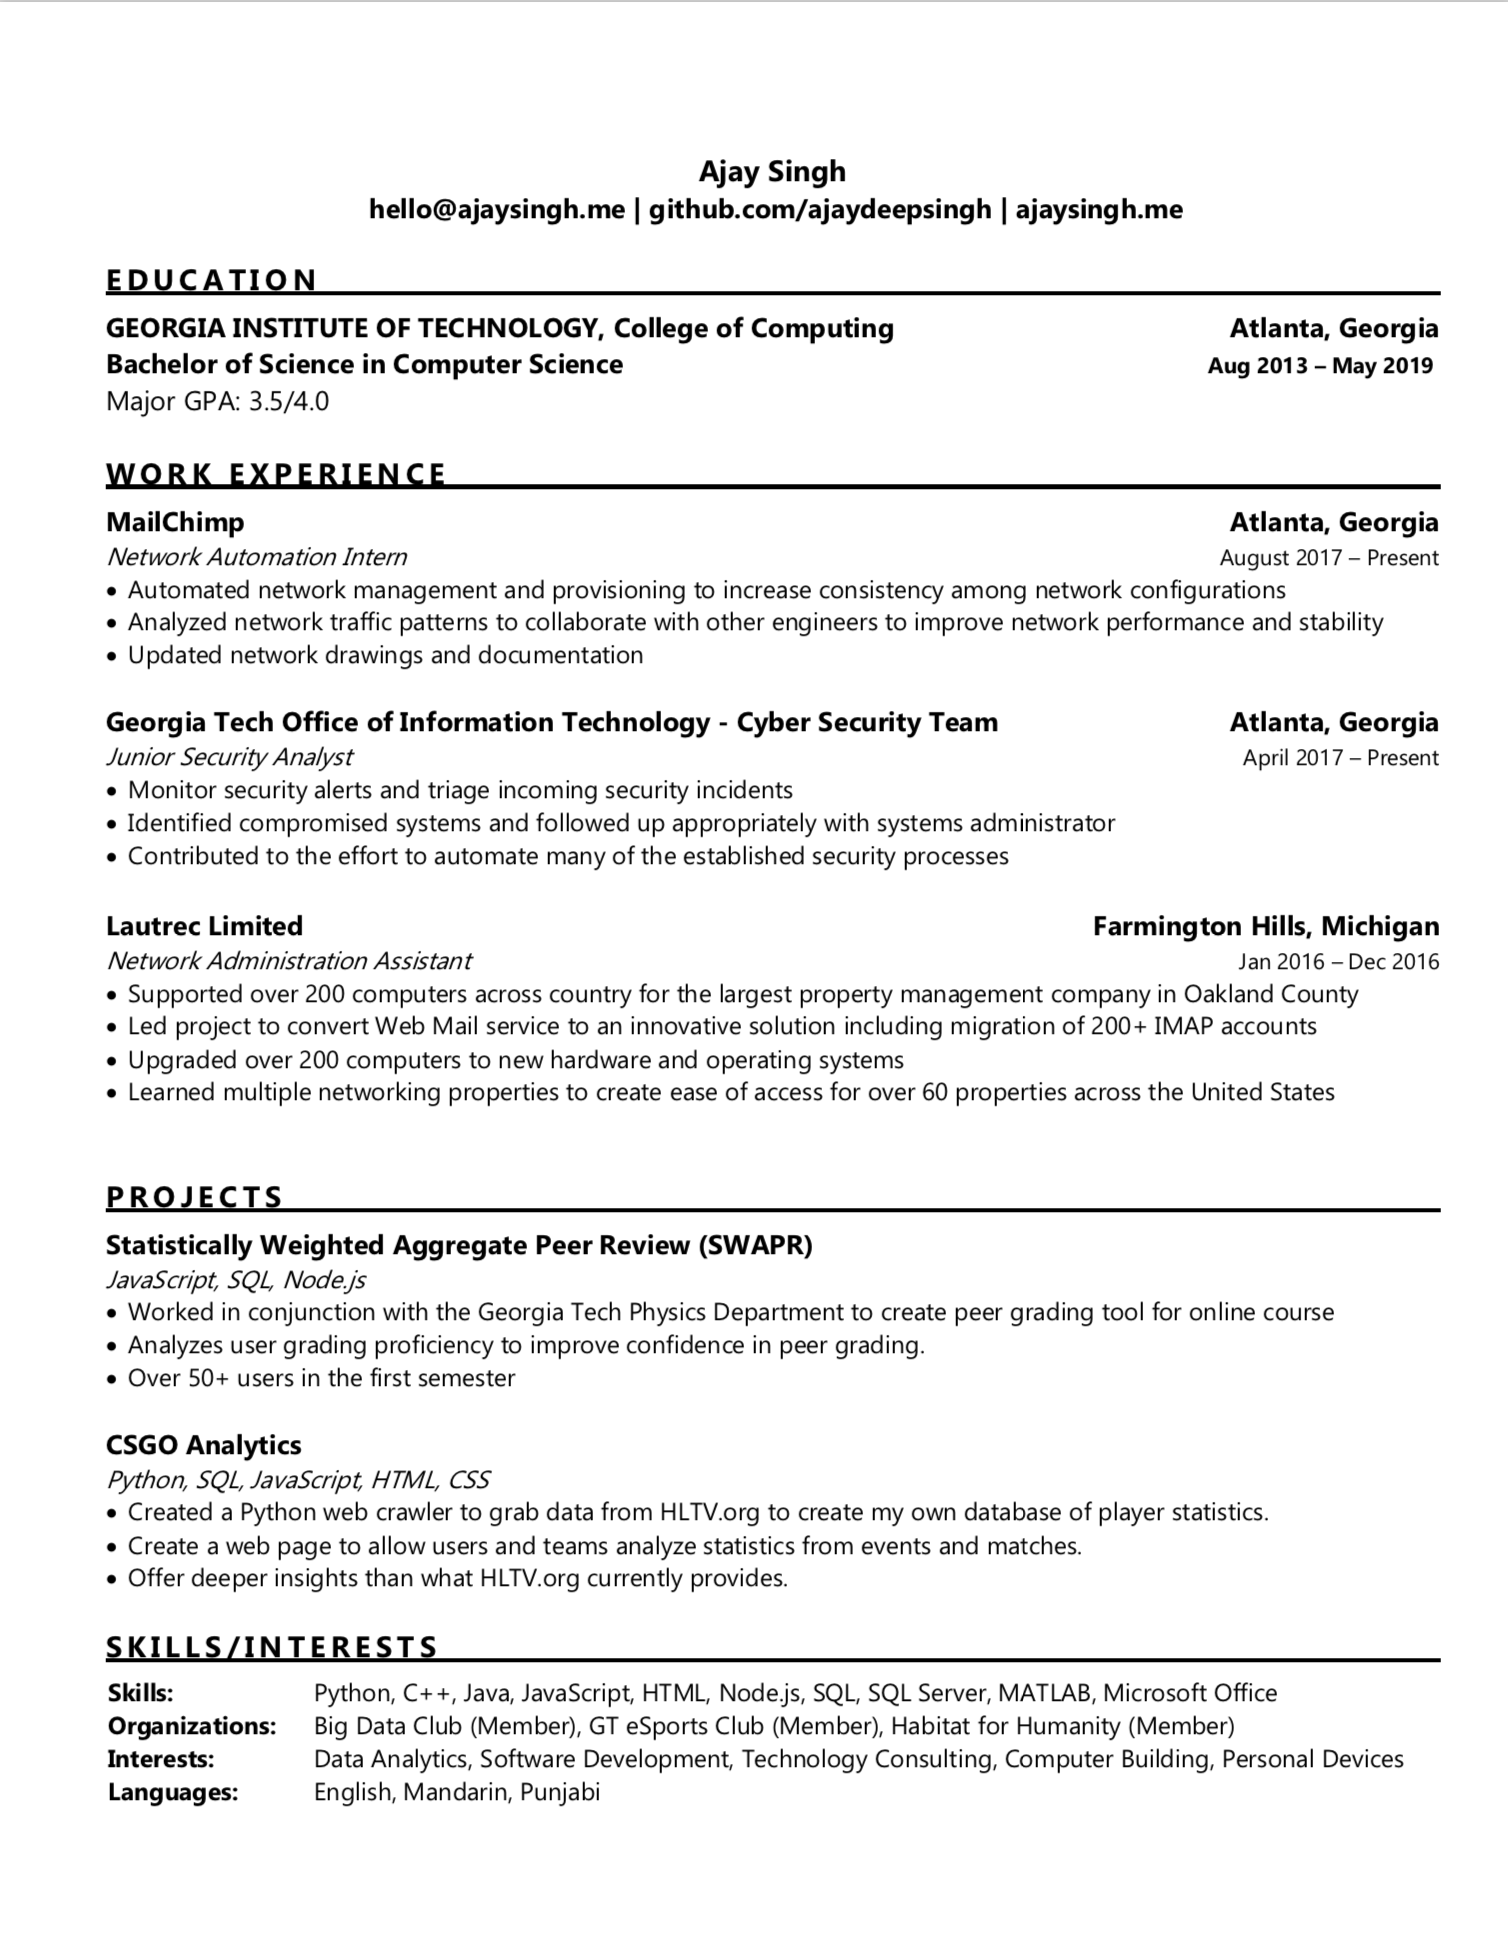
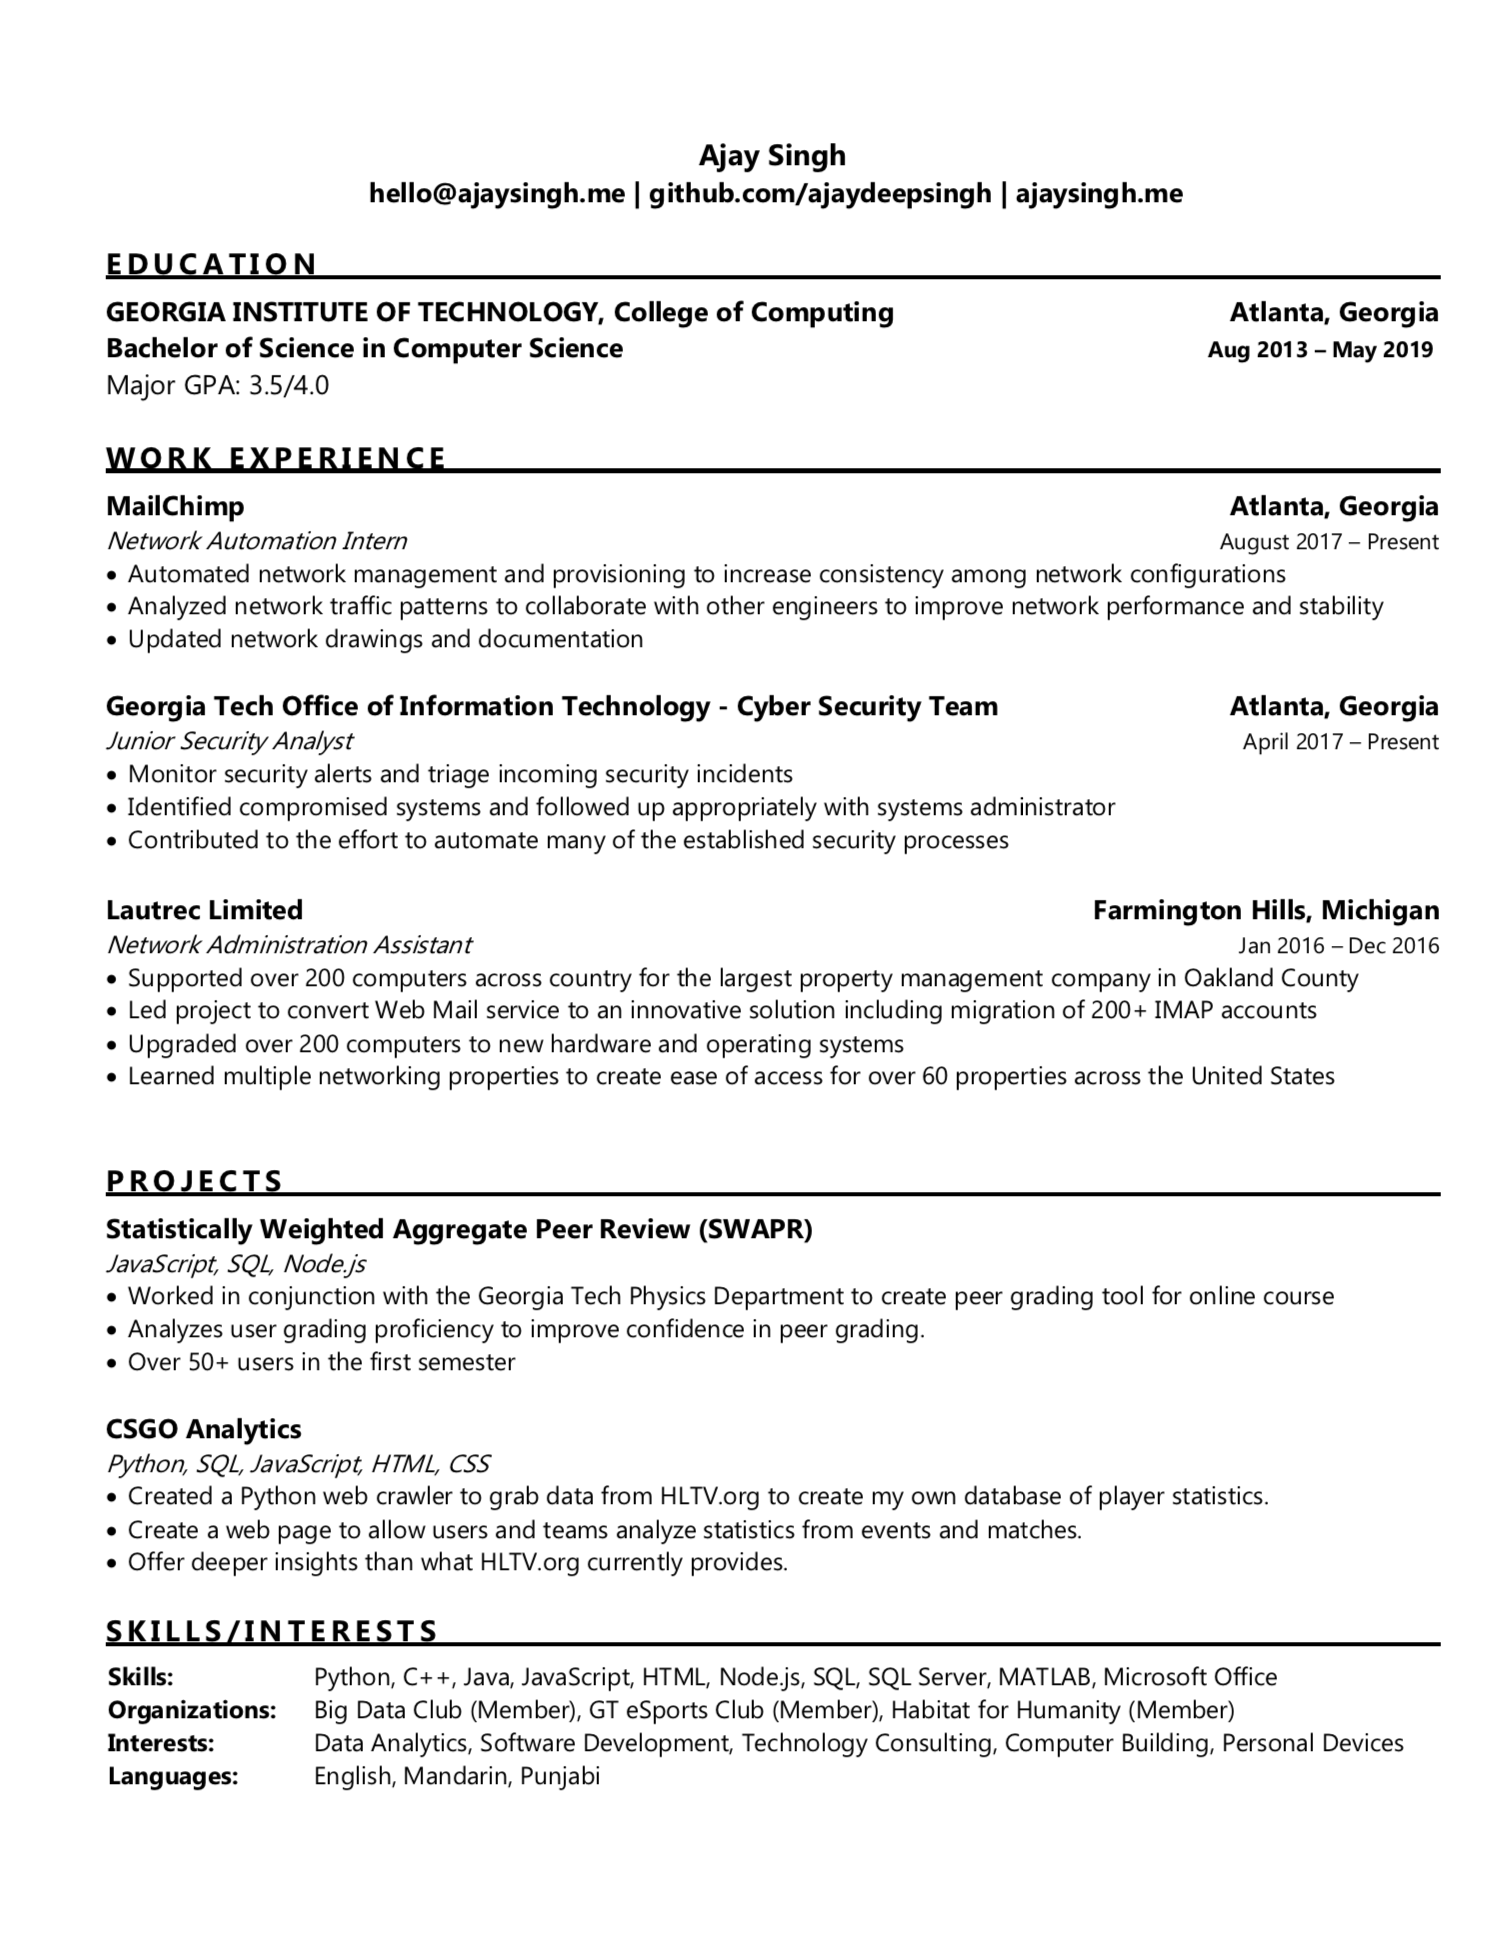
small tweaks
-

Changed region(s): [[0.0623, 0.0619, 0.9662, 0.9278], [0.9038, 0.8969, 0.935, 0.9278], [0.7792, 0.7423, 0.8103, 0.7732]]

diff --git a/_layouts/post.html b/_layouts/post.html
@@ -31,7 +31,7 @@ layout: page
         <div class="wrapper" id="right">
           <small>{{page.next.date | date: "%b %-d, %Y"}} <b>Next</b></small>
           <br>
-          <a class="no-hov" href="{{ page.previous.url | prepend: site.baseurl }}">{{page.next.title}} &raquo;</a>
+          <a class="no-hov" href="{{ page.next.url | prepend: site.baseurl }}">{{page.next.title}} &raquo;</a>
         </div>
 		{% endif %}
 		</div>

diff --git a/_layouts/resume.html b/_layouts/resume.html
@@ -1,0 +1,13 @@
+---
+layout: page
+---
+
+<article class="c-article">
+<!--     <header class="c-article__header">
+    </header> -->
+    <div class="c-article__main">
+        {{ content }}
+    </div>
+    <footer class="c-article__footer">
+    </footer>
+</article>

diff --git a/_pages/about.md b/_pages/about.md
@@ -3,11 +3,11 @@ layout: content
 title: About
 permalink: /about/
 ---
-Hi, I'm Ajay and I live in Atlanta, Georgia. I am a computer science major at  <a href="http://www.gatech.edu/"> Georgia Tech</a> with a primary interest in cybersecurity and networks.
+Hi, I'm Ajay and I live in Atlanta, Georgia. I am a computer science major at  <a href="http://www.gatech.edu/"> Georgia Tech</a> with a primary interest in cybersecurity and networks. I have previously worked for the the Georgia Tech Cyber Security Department and most recently worked for <a href="http://www.mailchimp.com/"> MailChimp</a> as a Network Automation Intern.
 
-Thanks for visiting my site.
+Thanks for visiting my site!
 
-I program, take photos, and write about software development when I have the time. More information can be found through <a href="https://www.linkedin.com/in/singhajaydeep/" data-network="LinkedIn" data-proofer-ignore>LinkedIn.</a>
+I program, take photos, and write about things that interest me when I have the time. More information can be found through <a href="https://www.linkedin.com/in/singhajaydeep/" data-network="LinkedIn" data-proofer-ignore>LinkedIn.</a>
 
 ----
 

diff --git a/_drafts/2018-07-29-Colorado2018.md b/_drafts/2018-07-29-Colorado2018.md
@@ -1,0 +1,34 @@
+---
+layout: post
+title: "Colorado 2018"
+description: "One week in a beautiful state"
+category: 
+tags: [Travel]
+---
+
+### Introduction
+
+During the summer of 2018 my and my cousin took a trip together to the great state of Colorado and got a chance to see much of the great outdoors. 
+
+### Day 1 - Sunday 
+
+Fly in and meet up. 
+
+### Day 2 - Monday
+
+Red Rocks Amphitheater
+
+### Day 3 - Tuesday
+
+Golden
+Coors Brewing Factory Tour
+
+### Day 4 - Wednesday
+
+
+
+### Day 5 - Thursday
+
+### Day 6 - Friday
+
+### Day 7 - Saturday

diff --git a/_drafts/2018-07-29-test.md b/_drafts/2018-07-29-test.md
@@ -1,0 +1,8 @@
+---
+layout: post
+title: "test"
+description: ""
+category: 
+tags: []
+---
+this is a test

diff --git a/_pages/resume.md b/_pages/resume.md
@@ -1,6 +1,6 @@
 ---
-layout: content
-title: 
+layout: resume
+title: Resume
 permalink: /resume/
 ---
 
